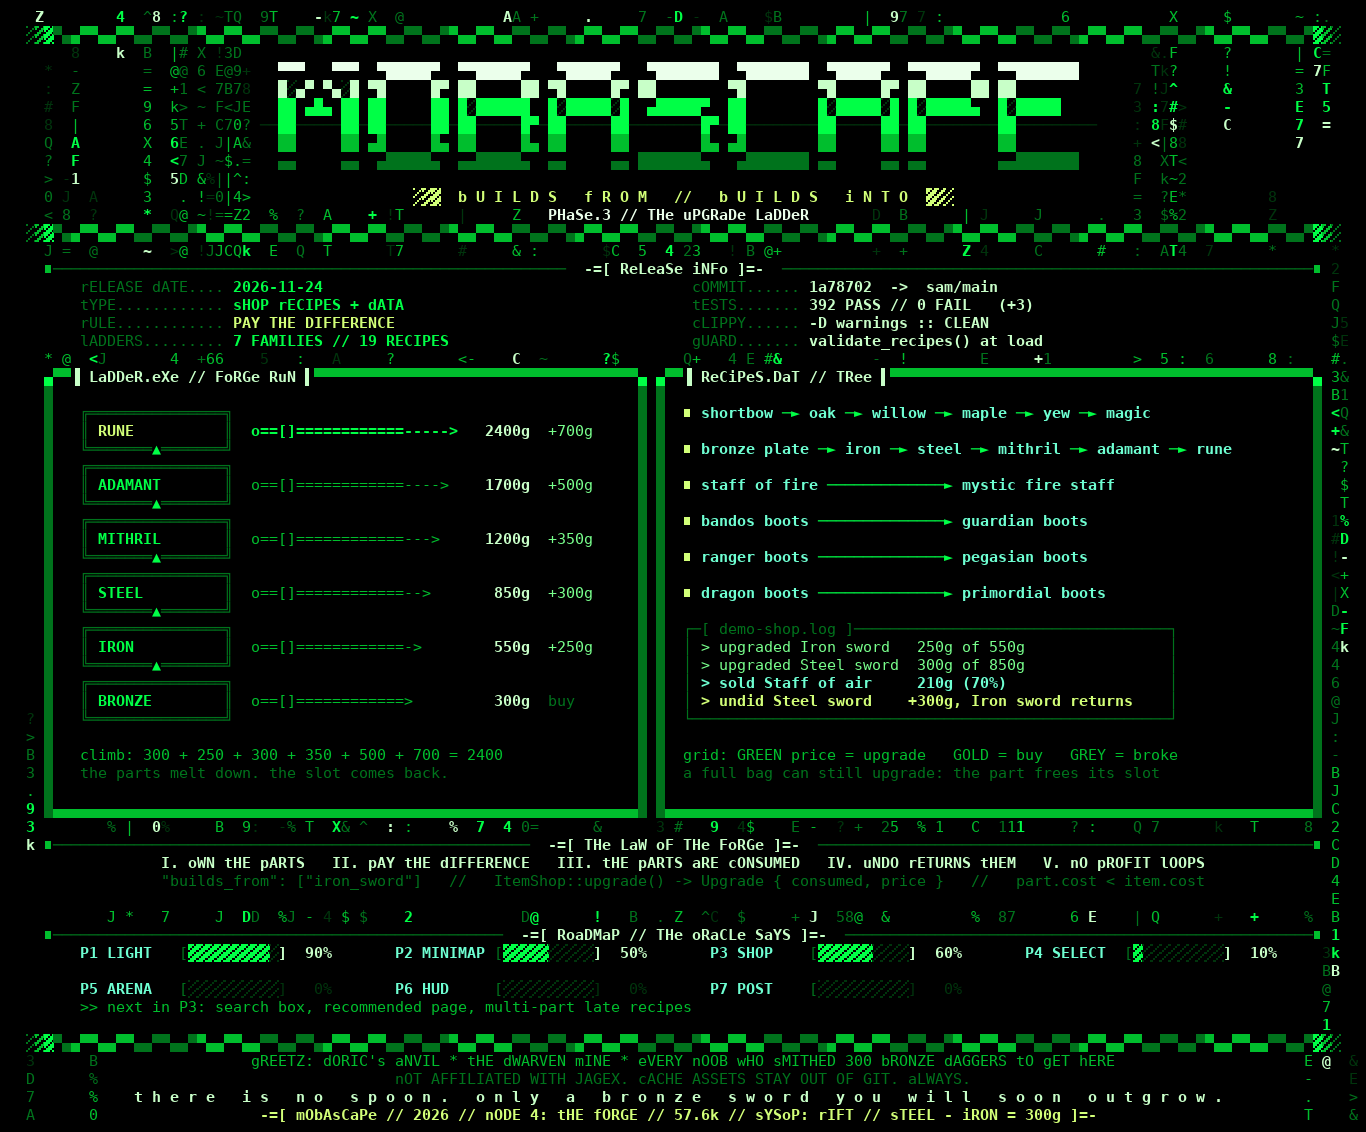
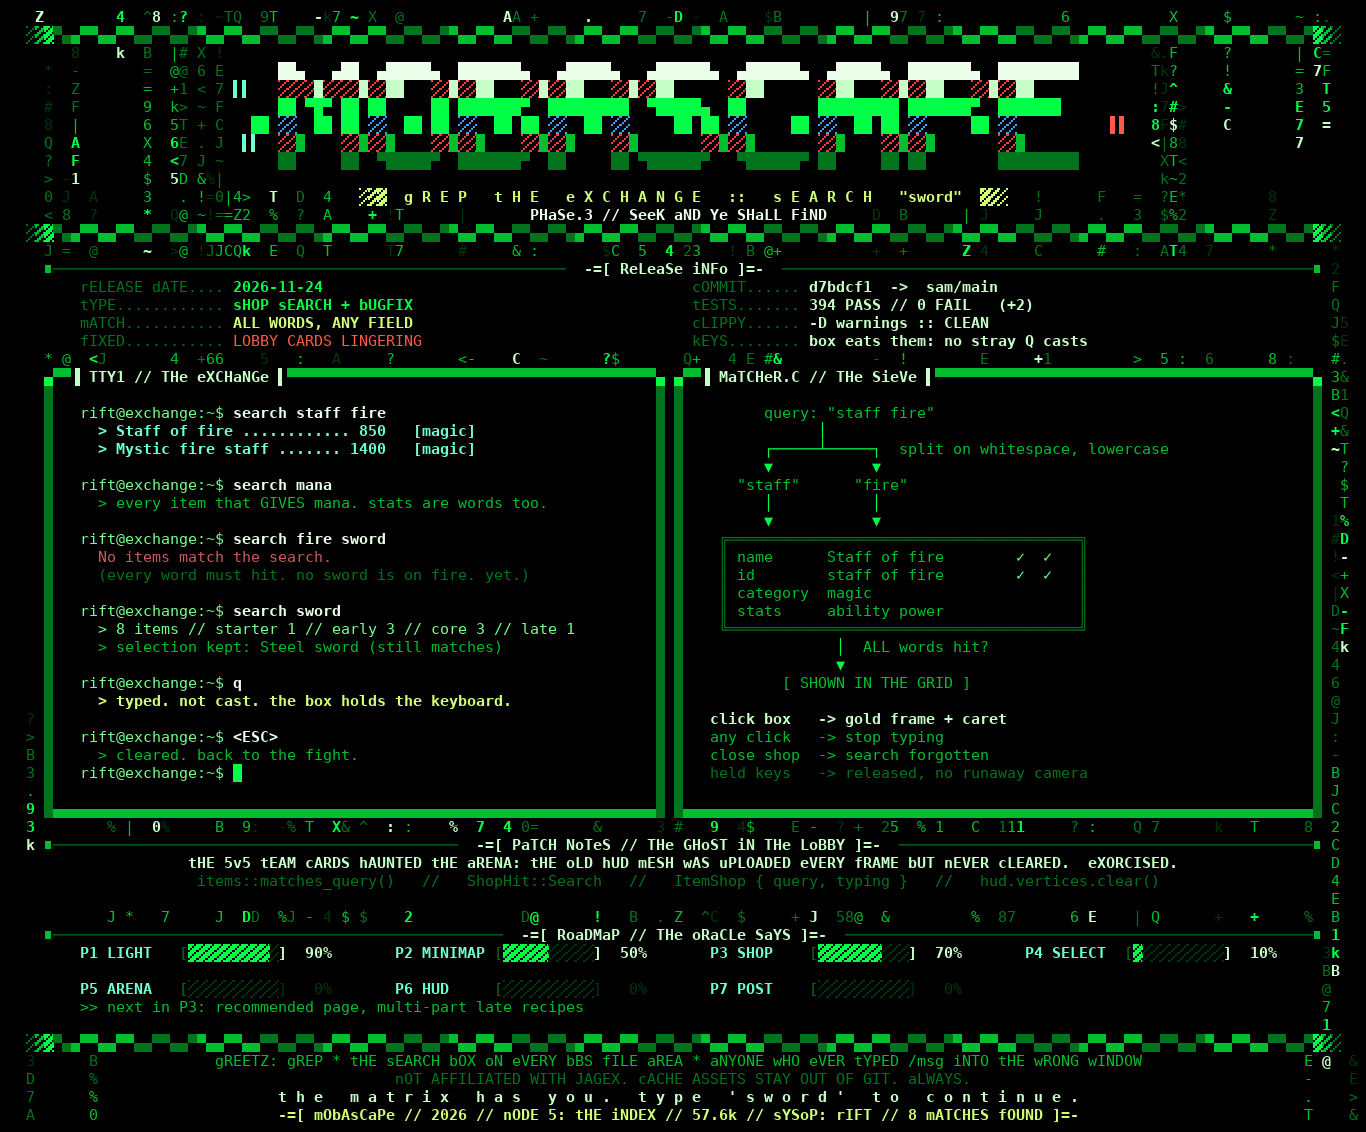
docs: progress matrix, index edition

diff --git a/tools/matrix_bbs.py b/tools/matrix_bbs.py
@@ -147,128 +147,124 @@ def logo(y, word):
 
 
 # ============================================================================
-def outline_logo(y, word):
-    """Hollow logo: only the edge of each letter is drawn, in box-drawing
-    strokes, with a dotted ░ fill inside, like the ACiD-era 'neon' fonts."""
+def glitch_logo(y, word):
+    """Logo with horizontal tearing: some rows slip sideways, with RGB
+    ghosts, like a scrambled signal on a 2400-baud line."""
     width = len(word) * 10 - 1
     x0 = (W - width) // 2
-    clear(x0 - 3, y - 1, x0 + width + 3, y + LOGO_ROWS + 1)
-    cells = set()
-    for i, letter in enumerate(word):
-        for r in range(LOGO_ROWS):
+    clear(x0 - 6, y - 1, x0 + width + 6, y + LOGO_ROWS)
+    slip = [0, 2, 0, -3, 1, 0]
+    for r in range(LOGO_ROWS):
+        for i, letter in enumerate(word):
             for c, px in enumerate(LOGO[letter][r]):
-                if px != " ":
-                    cells.add((x0 + i * 10 + c, y + r))
-    for (x, yy) in cells:
-        edge = any((x + dx, yy + dy) not in cells for dx, dy in ((1, 0), (-1, 0), (0, 1), (0, -1)))
-        row = yy - y
-        if edge:
-            up = (x, yy - 1) not in cells
-            down = (x, yy + 1) not in cells
-            ch = "▀" if up and not down else "▄" if down and not up else "█"
-            put(x, yy, ch, LOGO_GRAD[row])
-        else:
-            put(x, yy, "░", FAINT)
-    # A scan line through the middle.
-    for x in range(x0 - 2, x0 + width + 2):
-        if (x, y + 3) not in cells:
-            put(x, y + 3, "─", FAINT)
+                if px == " ":
+                    continue
+                x = x0 + i * 10 + c + slip[r]
+                if slip[r]:
+                    put(x - slip[r], y + r, "░", (255, 60, 60) if slip[r] > 0 else (60, 160, 255))
+                put(x, y + r, px, LOGO_GRAD[r])
+    for k, (r, x) in enumerate([(1, x0 - 5), (3, x0 + width + 3), (4, x0 - 4)]):
+        text(x, y + r, "▌▐"[k % 2] * 2, RED if k % 2 else CYAN)
 
 
 fade_bar(1, 2, W - 3)
-outline_logo(3, "MOBASCAPE")
-center(10, "  ░▒▓  b U I L D S   f R O M   //   b U I L D S   i N T O  ▓▒░  ", AMBER)
-center(11, "  " + elite("phase.3 // the upgrade ladder") + "  ", WHITE)
+glitch_logo(3, "MOBASCAPE")
+center(10, '  ░▒▓  g R E P   t H E   e X C H A N G E   ::   s E A R C H   "sword"  ▓▒░  ', AMBER)
+center(11, "  " + elite("phase.3 // seek and ye shall find") + "  ", WHITE)
 fade_bar(12, 2, W - 3)
 
 # --- release info -------------------------------------------------------------
 header(14, elite("release info"))
 clear(4, 15, W - 5, 18)
 info = [
-    ("rELEASE dATE", "2026-11-24", "cOMMIT", "1a78702  ->  sam/main"),
-    ("tYPE", "sHOP rECIPES + dATA", "tESTS", "392 PASS // 0 FAIL   (+3)"),
-    ("rULE", "PAY THE DIFFERENCE", "cLIPPY", "-D warnings :: CLEAN"),
-    ("lADDERS", "7 FAMILIES // 19 RECIPES", "gUARD", "validate_recipes() at load"),
+    ("rELEASE dATE", "2026-11-24", "cOMMIT", "d7bdcf1  ->  sam/main"),
+    ("tYPE", "sHOP sEARCH + bUGFIX", "tESTS", "394 PASS // 0 FAIL   (+2)"),
+    ("mATCH", "ALL WORDS, ANY FIELD", "cLIPPY", "-D warnings :: CLEAN"),
+    ("fIXED", "LOBBY CARDS LINGERING", "kEYS", "box eats them: no stray Q casts"),
 ]
 for i, (k1, v1, k2, v2) in enumerate(info):
     y = 15 + i
     text(8, y, f"{k1:.<16}", DIM)
-    text(25, y, v1, AMBER if k1 == "rULE" else BRIGHT)
+    text(25, y, v1, AMBER if k1 == "mATCH" else (RED if k1 == "fIXED" else BRIGHT))
     text(76, y, f"{k2:.<12}", DIM)
     text(89, y, v2, HEAD)
 
-# --- left: the sword ladder ----------------------------------------------------
-box(4, 20, 70, 44, elite("ladder.exe // forge run"))
-rungs = [
-    ("RUNE", 2400, 700),
-    ("ADAMANT", 1700, 500),
-    ("MITHRIL", 1200, 350),
-    ("STEEL", 850, 300),
-    ("IRON", 550, 250),
-    ("BRONZE", 300, 300),
+# --- left: the terminal session ------------------------------------------------
+box(4, 20, 72, 44, elite("tty1 // the exchange"))
+session = [
+    ("rift@exchange:~$ ", "search staff fire", WHITE),
+    ("", "  > Staff of fire ............ 850   [magic]", CYAN),
+    ("", "  > Mystic fire staff ....... 1400   [magic]", CYAN),
+    ("", "", MID),
+    ("rift@exchange:~$ ", "search mana", WHITE),
+    ("", "  > every item that GIVES mana. stats are words too.", MID),
+    ("", "", MID),
+    ("rift@exchange:~$ ", "search fire sword", WHITE),
+    ("", "  No items match the search.", (200, 90, 90)),
+    ("", "  (every word must hit. no sword is on fire. yet.)", DIM),
+    ("", "", MID),
+    ("rift@exchange:~$ ", "search sword", WHITE),
+    ("", "  > 8 items // starter 1 // early 3 // core 3 // late 1", (120, 255, 140)),
+    ("", "  > selection kept: Steel sword (still matches)", MID),
+    ("", "", MID),
+    ("rift@exchange:~$ ", "q", WHITE),
+    ("", "  > typed. not cast. the box holds the keyboard.", AMBER),
+    ("", "", MID),
+    ("rift@exchange:~$ ", "<ESC>", WHITE),
+    ("", "  > cleared. back to the fight.", MID),
 ]
-for i, (name, cost, step) in enumerate(rungs):
-    y = 22 + i * 3
-    text(8, y, "╔═══════════════╗", DIM)
-    text(8, y + 1, "║", DIM)
-    text(10, y + 1, f"{name:<13}", BRIGHT if i else AMBER)
-    text(24, y + 1, "║", DIM)
-    text(8, y + 2, "╚═══════╤═══════╝" if i < 5 else "╚═══════════════╝", DIM)
-    # The blade.
-    blade = "o=[]" + "=" * (6 + (5 - i) * 0) + ">" * 1
-    text(27, y + 1, "o==[]" + "=" * (12 - i * 0) + "-" * (5 - i) + ">", MID if i else BRIGHT)
-    text(52, y + 1, f"{cost:>5}g", HEAD)
-    if i < 5:
-        text(60, y + 1, f"+{step}g", (120, 255, 140))
-        text(16, y + 3, "│", FAINT) if False else None
+for i, (prompt, cmd, col) in enumerate(session):
+    y = 22 + i
+    if prompt:
+        text(8, y, prompt, (120, 255, 140))
+        text(8 + len(prompt), y, cmd, col)
     else:
-        text(60, y + 1, "buy", DIM)
-for i in range(5):
-    put(16, 24 + i * 3, "▲", BRIGHT)
-text(8, 41, "climb: 300 + 250 + 300 + 350 + 500 + 700 = 2400", MID)
-text(8, 42, "the parts melt down. the slot comes back.", DIM)
+        text(8, y, cmd, col)
+put(8 + len("rift@exchange:~$ "), 42, "█", BRIGHT)
+text(8, 42, "rift@exchange:~$ ", (120, 255, 140))
 
-# --- right: the recipe tree + proof ------------------------------------------
-box(72, 20, W - 5, 44, elite("recipes.dat // tree"))
-tree = [
-    ("shortbow ─► oak ─► willow ─► maple ─► yew ─► magic", CYAN),
-    ("bronze plate ─► iron ─► steel ─► mithril ─► adamant ─► rune", CYAN),
-    ("staff of fire ─────────────► mystic fire staff", CYAN),
-    ("bandos boots ──────────────► guardian boots", CYAN),
-    ("ranger boots ──────────────► pegasian boots", CYAN),
-    ("dragon boots ──────────────► primordial boots", CYAN),
+# --- right: the matcher diagram -------------------------------------------------
+box(74, 20, W - 5, 44, elite("matcher.c // the sieve"))
+diagram = [
+    '      query: "staff fire"',
+    "            │",
+    "      ┌─────┴─────┐  split on whitespace, lowercase",
+    "      ▼           ▼",
+    '   "staff"      "fire"',
+    "      │           │",
+    "      ▼           ▼",
+    " ╔═══════════════════════════════════════╗",
+    " ║ name      Staff of fire        ✓  ✓   ║",
+    " ║ id        staff of fire        ✓  ✓   ║",
+    " ║ category  magic                       ║",
+    " ║ stats     ability power               ║",
+    " ╚═══════════════════════════════════════╝",
+    "              │  ALL words hit?",
+    "              ▼",
+    "        [ SHOWN IN THE GRID ]",
 ]
-for i, (line, col) in enumerate(tree):
-    y = 22 + i * 2
-    put(75, y, "■", AMBER)
+for i, line in enumerate(diagram):
     for j, ch in enumerate(line):
-        put(77 + j, y, ch, BRIGHT if ch in "─►" else col)
-text(75, 34, "┌─[ demo-shop.log ]───────────────────────────────────┐", DIM)
-log = [
-    ("upgraded Iron sword   250g of 550g", (120, 255, 140)),
-    ("upgraded Steel sword  300g of 850g", (120, 255, 140)),
-    ("sold Staff of air     210g (70%)", CYAN),
-    ("undid Steel sword    +300g, Iron sword returns", AMBER),
-]
-for i, (line, col) in enumerate(log):
-    text(75, 35 + i, "│", DIM)
-    text(77, 35 + i, "> " + line, col)
-    text(129, 35 + i, "│", DIM)
-text(75, 39, "└─────────────────────────────────────────────────────┘", DIM)
-text(75, 41, "grid: GREEN price = upgrade   GOLD = buy   GREY = broke", MID)
-text(75, 42, "a full bag can still upgrade: the part frees its slot", DIM)
+        col = BRIGHT if ch in "│┌┐┴▼─" else (DIM if ch in "╔╗╚╝═║" else ((120, 255, 140) if ch == "✓" else MID))
+        if ch != " ":
+            put(78 + j, 22 + i, ch, col)
+text(120, 30, "", MID)
+text(78, 39, "click box   -> gold frame + caret", HEAD)
+text(78, 40, "any click   -> stop typing", MID)
+text(78, 41, "close shop  -> search forgotten", MID)
+text(78, 42, "held keys   -> released, no runaway camera", DIM)
 
-# --- the code -----------------------------------------------------------------
-header(46, elite("the law of the forge"))
+# --- the bugfix ---------------------------------------------------------------
+header(46, elite("patch notes // the ghost in the lobby"))
 clear(4, 47, W - 5, 49)
-center(47, "I. oWN tHE pARTS   II. pAY tHE dIFFERENCE   III. tHE pARTS aRE cONSUMED   IV. uNDO rETURNS tHEM   V. nO pROFIT lOOPS", HEAD)
-center(48, '"builds_from": ["iron_sword"]   //   ItemShop::upgrade() -> Upgrade { consumed, price }   //   part.cost < item.cost', DIM)
+center(47, "tHE 5v5 tEAM cARDS hAUNTED tHE aRENA: tHE oLD hUD mESH wAS uPLOADED eVERY fRAME bUT nEVER cLEARED.  eXORCISED.", HEAD)
+center(48, "items::matches_query()   //   ShopHit::Search   //   ItemShop { query, typing }   //   hud.vertices.clear()", DIM)
 
 # --- roadmap -------------------------------------------------------------------
 header(51, elite("roadmap // the oracle says"))
 clear(4, 52, W - 5, 56)
 phases = [
-    ("P1 LIGHT", 9), ("P2 MINIMAP", 5), ("P3 SHOP", 6), ("P4 SELECT", 1),
+    ("P1 LIGHT", 9), ("P2 MINIMAP", 5), ("P3 SHOP", 7), ("P4 SELECT", 1),
     ("P5 ARENA", 0), ("P6 HUD", 0), ("P7 POST", 0),
 ]
 for i, (name, done) in enumerate(phases):
@@ -279,14 +275,14 @@ for i, (name, done) in enumerate(phases):
     for j in range(10):
         put(x + 12 + j, y, "▓" if j < done else "░", BRIGHT if j < done else FAINT)
     text(x + 22, y, f"] {done * 10:>3}%", HEAD if done else FAINT)
-text(8, 55, ">> next in P3: search box, recommended page, multi-part late recipes", MID)
+text(8, 55, ">> next in P3: recommended page, multi-part late recipes", MID)
 
 fade_bar(57, 2, W - 3)
 clear(10, 58, W - 11, 61)
-center(58, "gREETZ: dORIC's aNVIL * tHE dWARVEN mINE * eVERY nOOB wHO sMITHED 300 bRONZE dAGGERS tO gET hERE", MID)
+center(58, "gREETZ: gREP * tHE sEARCH bOX oN eVERY bBS fILE aREA * aNYONE wHO eVER tYPED /msg iNTO tHE wRONG wINDOW", MID)
 center(59, "nOT AFFILIATED WITH JAGEX. cACHE ASSETS STAY OUT OF GIT. aLWAYS.", DIM)
-center(60, "  t h e r e   i s   n o   s p o o n .   o n l y   a   b r o n z e   s w o r d   y o u   w i l l   s o o n   o u t g r o w .  ", HEAD)
-center(61, "-=[ mObAsCaPe // 2026 // nODE 4: tHE fORGE // 57.6k // sYSoP: rIFT // sTEEL - iRON = 300g ]=-", AMBER)
+center(60, "  t h e   m a t r i x   h a s   y o u .   t y p e   ' s w o r d '   t o   c o n t i n u e .  ", HEAD)
+center(61, "-=[ mObAsCaPe // 2026 // nODE 5: tHE iNDEX // 57.6k // sYSoP: rIFT // 8 mATCHES fOUND ]=-", AMBER)
 
 # --- outputs ------------------------------------------------------------------
 with open(out + ".txt", "w") as f:
